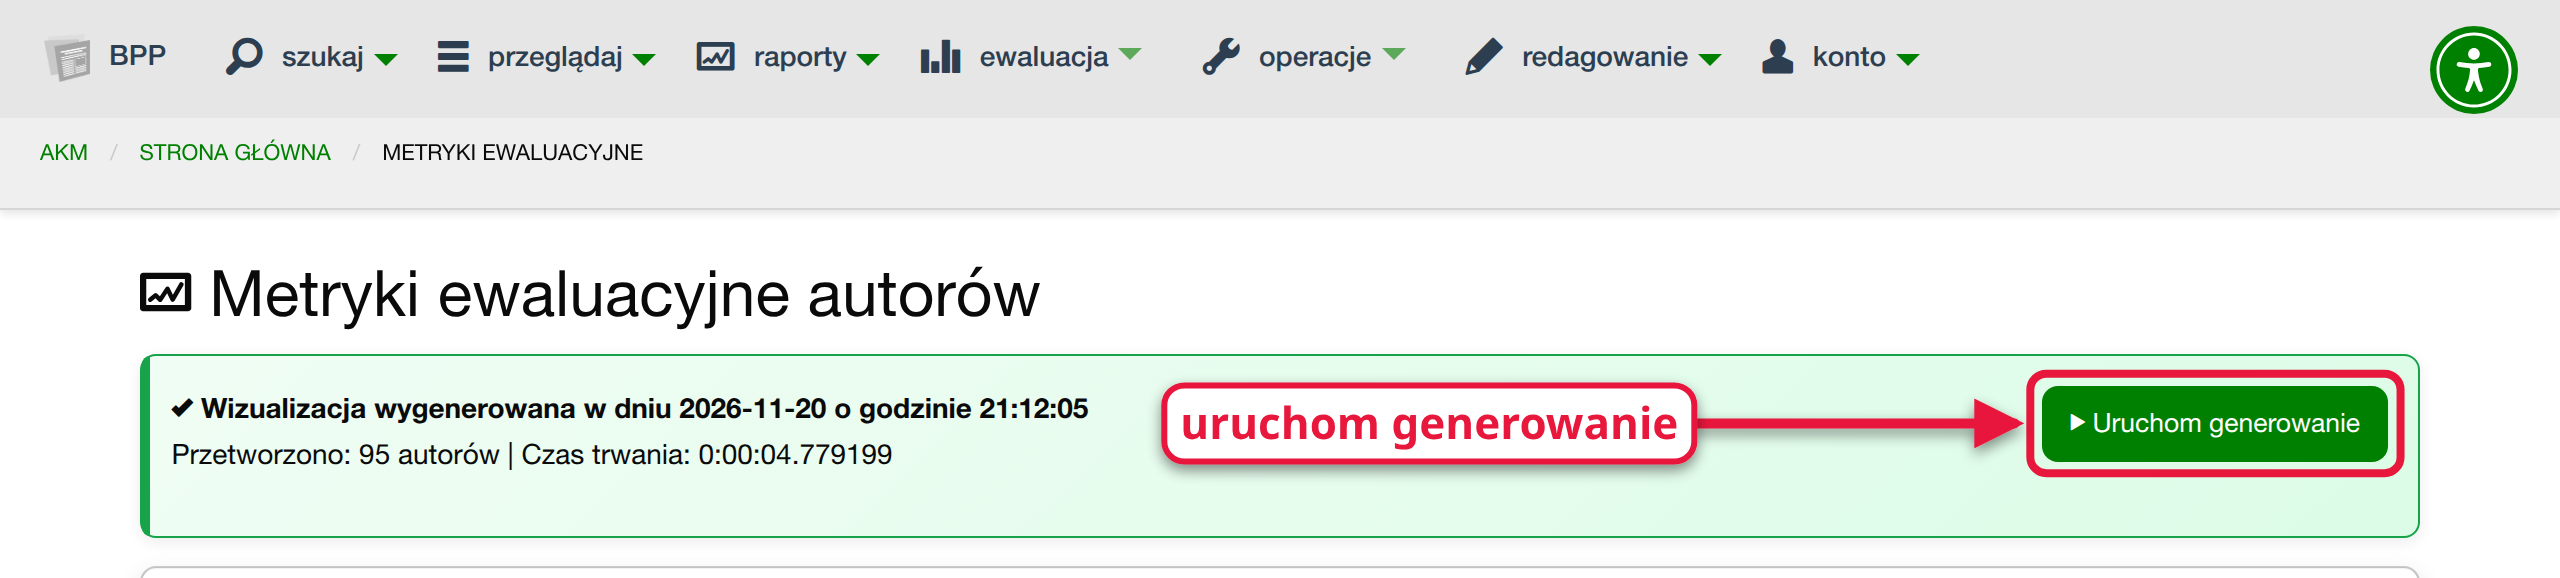
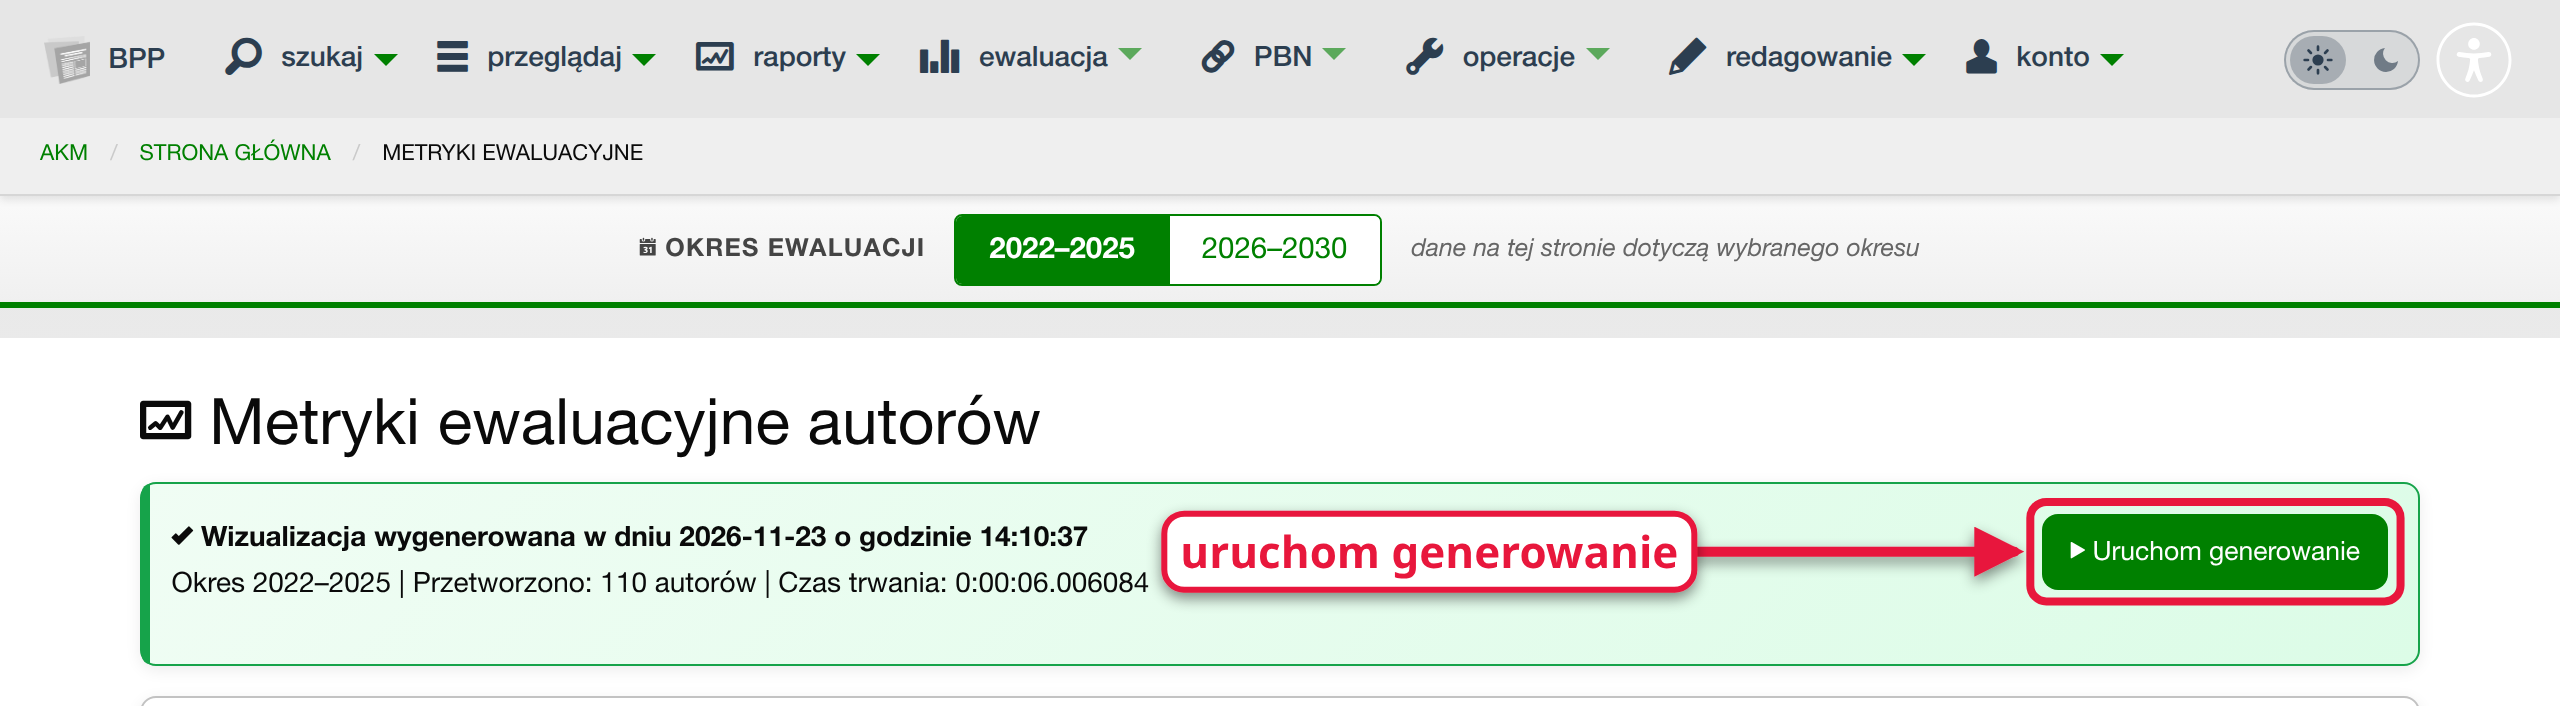
Dokumentacja: odświeżone zrzuty „Metryki ewaluacyjne” (FD 630)
Ramka statusu w trakcie generowania pokazuje dziś jeden z trzech stanów
(oczekiwanie, przeliczanie liczby N, licznik autorów), a zrzut
05-postep.png pochodził sprzed tych zmian. Scenariusz czeka teraz na
licznik przetworzonych autorów, zamiast robić zrzut sekundę po
zleceniu — wtedy widać było tylko „Oczekiwanie...”.

Pozostałe zrzuty artykułu też pokazywały stary interfejs (brak paska
okresu ewaluacji, pola lat w oknie generowania, 01 bez rozwiniętego
menu), więc zostały odświeżone razem. Podpisy „Excel z filtrami”
i „odepnij” przesunięte, bo po zmianach układu zasłaniały pola i tytuły.

W tekście: okno generowania nie ma już pól lat (okres bierze się
z paska okresu), więc wiersz tabeli i sekcja o zmianie lat zniknęły.

Claude-Session: https://claude.ai/code/session_01Mr7s9oLHK52LLrZp7Fc2T4

diff --git a/bin/docs-screenshots.py b/bin/docs-screenshots.py
@@ -3665,11 +3665,23 @@ def metryki_ewaluacyjne(page: Page, base: str, out: Path) -> None:
         },
     )
 
-    # 4. Submit, catch the progress box, wait until done
+    # 4. Submit, catch the progress box, wait until done. The box goes through
+    # three states ("Oczekiwanie...", "Przeliczanie liczby N...", then the
+    # counter of processed authors); the screenshot shows the last one, so wait
+    # for the counter instead of taking whatever is there right after submit.
     m.click("#generowanie-form button[type=submit]")
     m.wait_for_selector("#status-box.warning", timeout=10000)
-    m.wait_for_timeout(1000)
     m.set_viewport_size(VIEWPORT)
+    m.wait_for_function(
+        "document.querySelector('#liczba-przetworzonych')"
+        " || document.querySelector('#status-box.success, #status-box.alert')",
+        timeout=120000,
+    )
+    if not m.locator("#liczba-przetworzonych").count():
+        raise RuntimeError(
+            "metryki-ewaluacyjne: generowanie skończyło się, zanim ramka statusu "
+            "pokazała licznik autorów — uruchom scenariusz ponownie"
+        )
     m.mouse.move(5, 5)
     sb = page_box(m, "#status-box")
     shot(m, out / "05-postep.png", sb["y"] - 8, sb["height"] + 28)
@@ -3692,7 +3704,7 @@ def metryki_ewaluacyjne(page: Page, base: str, out: Path) -> None:
                 "arrow": "above",
                 "label": "Excel z filtrami",
                 "dx": -420,
-                "dy": 95,
+                "dy": -21,  # in the status box's empty part, clear of the filters
             },
         ],
     )
@@ -3769,10 +3781,11 @@ def metryki_ewaluacyjne(page: Page, base: str, out: Path) -> None:
             {"sel": "h4", "text": "Szczegóły prac nazbieranych"},
             {
                 "sel": "button[title='Odepnij dyscyplinę']",
-                "arrow": "left",
+                # label in the heading row: in the table it covers the titles
+                "arrow": "above",
                 "label": "odepnij",
-                "dx": -260,
-                "dy": 30,
+                "dx": -200,
+                "dy": 42,
             },
         ],
     )

diff --git a/docs/redaktor/metryki-ewaluacyjne.md b/docs/redaktor/metryki-ewaluacyjne.md
@@ -79,11 +79,11 @@ optymalizacji, snapshotów odpięć i wydruku oświadczeń.
 2. Otworzy się okno **„Uruchom generowanie metryk”**. W typowej sytuacji
    **niczego nie zmieniaj** i kliknij **„Uruchom generowanie”**.
 
-    ![Okno „Uruchom generowanie metryk”: lata, próg punktów, rodzaje autorów](../images/redaktor/metryki-ewaluacyjne/04-okno-generowania.png)
+    ![Okno „Uruchom generowanie metryk”: okres ewaluacji, próg punktów, rodzaje autorów](../images/redaktor/metryki-ewaluacyjne/04-okno-generowania.png)
 
     | Pole | Domyślnie | Co znaczy |
     |---|---|---|
-    | **Rok początkowy** / **Rok końcowy** | 2022 / 2025 | z prac z których lat zbierać punkty — zostaw okres ewaluacji (patrz [uwaga niżej](#zmiana-lat)) |
+    | **Okres ewaluacji** | okres wybrany na pasku | tylko informacja: metryki liczą się dla okresu wybranego na pasku **Okres ewaluacji** u góry strony. Żeby policzyć inny okres, zamknij okno i przełącz pasek |
     | **Minimalny próg punktów** | 0,01 | praca bierze udział w liczeniu, jeśli jej **punkty MNiSW** (za całą pracę) są co najmniej takie; 0,01 = pomiń prace bez punktów |
     | **Nadpisz istniejące metryki** | zaznaczone | przed liczeniem kasuje wszystkie dotychczasowe metryki (patrz [uwaga niżej](#nadpisz)) |
     | **Rodzaje autorów do przetworzenia** | wszystkie | dla kogo liczyć metryki: rodzaje autorów, dla których BPP liczy sloty (zwykle **N**, **B**, **D**), oraz **„Brak danych”** |
@@ -96,11 +96,12 @@ optymalizacji, snapshotów odpięć i wydruku oświadczeń.
    **„Oczekiwanie na rozpoczęcie przetwarzania...”** (zadanie czeka
    w kolejce), potem **„Przeliczanie liczby N i przygotowanie danych...”**
    — BPP **przelicza liczbę N** (zawsze, przy każdym generowaniu), a na
-   końcu pasek postępu z napisem **„Przetworzono: … autorów”**. Ramka
-   odświeża się sama co 2 sekundy, a po zakończeniu przeładowuje całą
-   stronę.
+   końcu **„Generowanie metryk w trakcie...”** z napisem
+   **„Przetworzono: … autorów”** i rosnącym paskiem postępu (na
+   zrzucie niżej). Ramka odświeża się sama co 2 sekundy, a po
+   zakończeniu przeładowuje całą stronę.
 
-    ![Ramka statusu w trakcie przeliczania: oczekiwanie, przeliczanie liczby N, licznik autorów](../images/redaktor/metryki-ewaluacyjne/05-postep.png)
+    ![Ramka statusu w trakcie przeliczania: „Generowanie metryk w trakcie...”, licznik przetworzonych autorów i pasek postępu](../images/redaktor/metryki-ewaluacyjne/05-postep.png)
 
     Przeliczanie biegnie w tle — możesz zamknąć stronę i wrócić później.
     Trwa od kilku sekund do kilku minut, zależnie od liczby autorów.
@@ -109,14 +110,6 @@ optymalizacji, snapshotów odpięć i wydruku oświadczeń.
     Ponieważ **„Nadpisz istniejące metryki”** najpierw kasuje stare
     wiersze, do końca przeliczania tabela, eksport i statystyki pokazują
     tylko autorów już policzonych. Nie pobieraj wtedy Excela.
-
-### Dlaczego nie zmieniać lat {#zmiana-lat}
-
-Pola lat zmieniają tylko zakres prac, z których zbierane są punkty.
-**Limit slotów** autora i liczba N są zawsze liczone za lata 2022–2025,
-a tabela „Wymiar etatu i procent dyscypliny” w szczegółach autora też
-pokazuje tylko te cztery lata. Inny zakres lat daje więc liczby, które do
-siebie nie pasują.
 
 ### „Nadpisz istniejące metryki” {#nadpisz}
 
